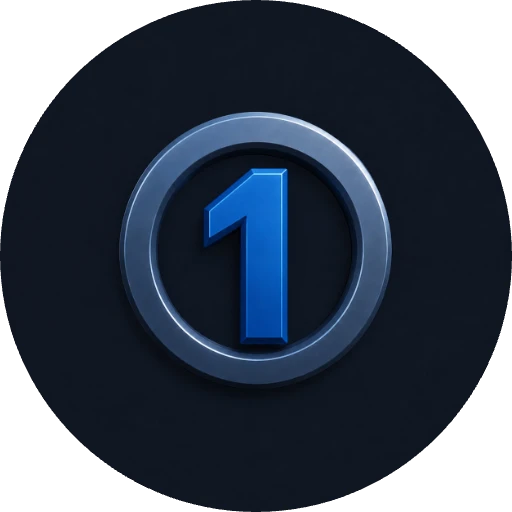
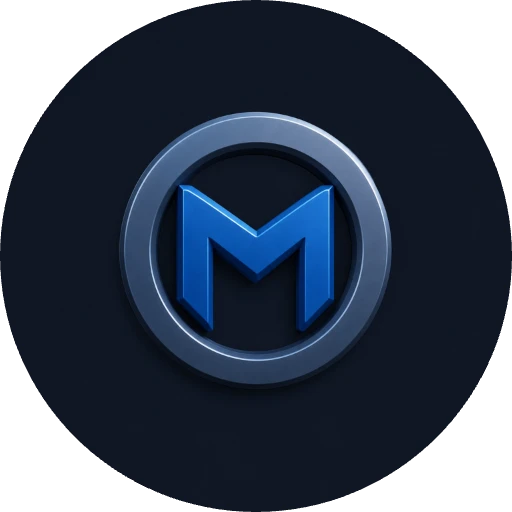
Add files via upload

Changed region(s): [[0.3125, 0.3125, 0.6562, 0.7188]]

diff --git a/about.html b/about.html
@@ -3,7 +3,7 @@
 <head>
   <meta charset="UTF-8" />
   <meta name="viewport" content="width=device-width, initial-scale=1.0, user-scalable=no" />
-  <title>ONE MANAGER | 2026</title>
+  <title>MARU | 2026</title>
   <link rel="icon" type="image/png" href="icon.webp">
 
   <link rel="stylesheet" href="about.css"/>
@@ -17,7 +17,7 @@
  
   <div class="container">  
     <div class="topbar">  
-      <div class="logo">ONE MANAGER</div>  
+      <div class="logo">MARU</div>  
       <div class="nav">  
         <a onclick="scr('about')">About</a>  
         <a onclick="scr('services')">Services</a>  
@@ -29,9 +29,9 @@
     </div>    
 
     <section class="hero">  
-      <h1 class="we">We are <span class="highlight">ONE MANAGER</span></h1>  
+      <h1 class="we">We are <span class="highlight">MARU</span></h1>  
       <p>  
-        A clean and modern web profile for <span class="highlight">ONE MANAGER Apps</span>.  
+        A clean and modern web profile for <span class="highlight">MARU Apps</span>.  
         I enjoy creating beautiful websites, download apps, and simple digital experiences that feel fast, professional, and easy to use.
       </p>  
     </section>    
@@ -43,7 +43,7 @@
 
         <p class="text">  
           I am <strong>MaxtoCantona</strong>, a software engineer focused on building modern websites, apps and mobile games with a clean, professional look.  
-          This page represents my work style for <strong>ONE MANAGER Apps</strong> — simple, responsive, fast, and designed for real users.  
+          This page represents my work style for <strong>MARU Apps</strong> — simple, responsive, fast, and designed for real users.  
           I enjoy creating download apps, landing pages, and web interfaces that are easy to navigate and visually strong.  
           My work focuses on performance, usability, mobile-friendly layouts, and elegant UI design.  
         </p>  
@@ -177,8 +177,8 @@
     </section>  
 
     <footer>  
-      <div class="yearNeed">© One manager. All rights reserved.</div>  
-      <div class="line yearNeed">One manager Apps • Software Engineer • Frontend Developer • UI Designer</div>  
+      <div class="yearNeed">© MARU. All rights reserved.</div>  
+      <div class="line yearNeed">MARU Apps • Software Engineer • Frontend Developer • UI Designer</div>  
     </footer>  
   </div>
 </body>
@@ -367,7 +367,7 @@
 
 
 <script>
-  document.title = `ONE MANAGER | ${new Date().getFullYear()}`;
+  document.title = `MARU | ${new Date().getFullYear()}`;
 document.querySelectorAll(".yearNeed").forEach(e => {
   const dateNow = new Date().getFullYear() + " ";
   const texts = e.innerText;

diff --git a/index.html b/index.html
@@ -4,7 +4,7 @@
 <meta charset="UTF-8">
   <link rel="icon" type="image/webp" href="icon.webp">
 <meta name="viewport" content="width=device-width, initial-scale=1.0">
-<title>Home - ONE MANAGER</title>
+<title>Home - MARU</title>
   <meta name="description" content="Explore and download top apps, utility tools, and exciting games created by ONE MANAGER.">
 <meta name="keywords" content="ONE MANAGER, Apps, Utility Tools, Android Apps, Games">
 <meta name="author" content="one manager">
@@ -125,7 +125,7 @@ body{
 
 <div id="content">
     <div class="card">
-    <h1>Welcome To ONE MANAGER Platform</h1>
+    <h1>Welcome To MARU Platform</h1>
     <p>Welcome to our official platform! Here you will find all the latest application releases, powerful utility tools, and exciting modern games carefully designed for you. Our goal is to provide high-quality software solutions that enhance your digital experience. Explore our growing library of apps and download lightweight, secure applications tailored to streamline your daily tasks.</p>
     
     <p>At ONE MANAGER, we believe technology should be seamless, accessible, and efficient. Our passionate team of developers works endlessly to ensure that every tool and game published on our platform meets the highest standards of performance, speed, and cybersecurity. Whether you are looking for modern productivity software to optimize your daily workflow, specialized tools for technical tasks, or immersive games to unwind during your free time, ONE MANAGER has something unique for everyone.</p>

diff --git a/download.html b/download.html
@@ -75,11 +75,12 @@ arrow_forward
     const appName = app.name;
     const versionName = app.version;
     const appNew = app.new;
+    const shortDes = app.shortDes;
     
       // Si badbaado leh u qor magaca iyo waxa cusub maadaama app-ku jiro
     document.getElementById("name").innerText = appName || "APP NOT FOUND";
     document.getElementById("about").innerText = description;
-    document.getElementById("short-desp").innerText = description.split(" ").slice(0,9).join(" ");
+    document.getElementById("short-desp").innerText = shortDes || description.split(" ").slice(0,9).join(" ");
     document.getElementById("coming").innerText = appNew || "Current version is a first version!";
 document.getElementById("aPrivacy").href = `privacypolicy.html?id=${appId}`;
     document.getElementById("aHelp").href = `help.html?id=${appId}`;
@@ -104,7 +105,7 @@ document.getElementById("aPrivacy").href = `privacypolicy.html?id=${appId}`;
         <img src="images/${iconURL}">
     <div class="name">
         <h2>${appName}</h2>
-    <p class="watermark">ONE MANAGER</p>
+    <p class="watermark">MARU</p>
     <div class=status>
     Status:<p class="stat" style="color: ${isAvailable.color}">${isAvailable.text}</p></div>
     <div class="version">Version: <p>${versionName}</p></div>

diff --git a/apps.html b/apps.html
@@ -270,7 +270,7 @@ let data = await response.json();
             <div class="h3">${appItem.name}</div>
         
         <div class="line_card">
-             <div class="watermark">ONE MANAGER</div>
+             <div class="watermark">MARU</div>
         <div class="dot">•</div>
              <div class="category">${categoriess}</div>
         </div>

diff --git a/footer.js b/footer.js
@@ -5,7 +5,7 @@ document.body.insertAdjacentHTML("beforeend", `
         <a href="about.html?mode=contact">Contact</a>
         <a href="about.html?mode=services">Services</a>
     </div>
-    <p>© 2026 one manager all rights reserved</p>
+    <p>© 2026 MARU all rights reserved</p>
 </div>
 
 <style>
